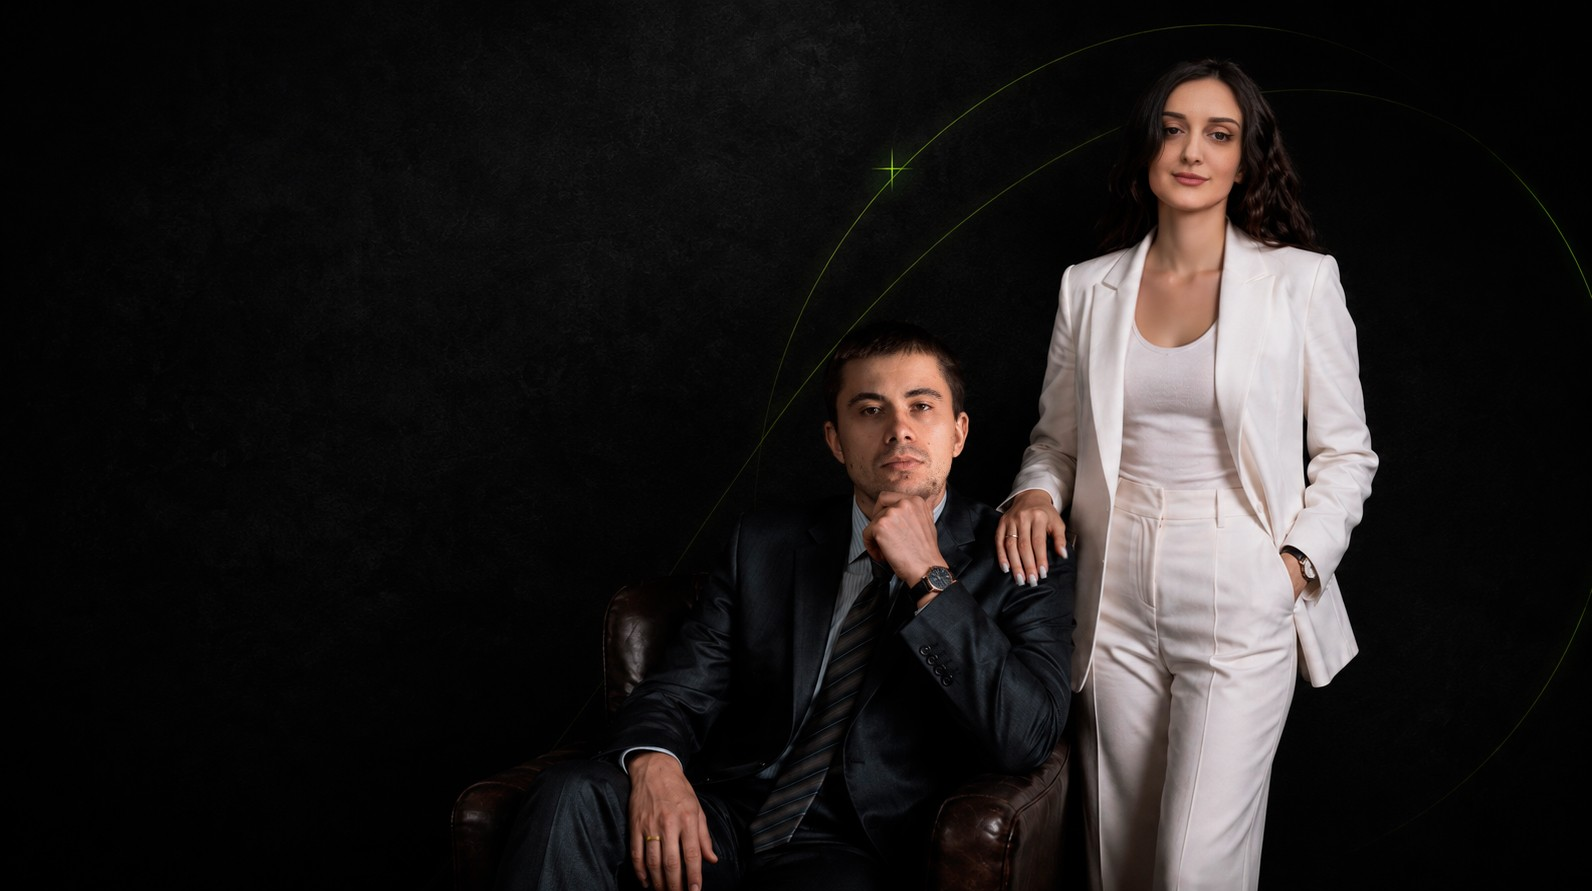
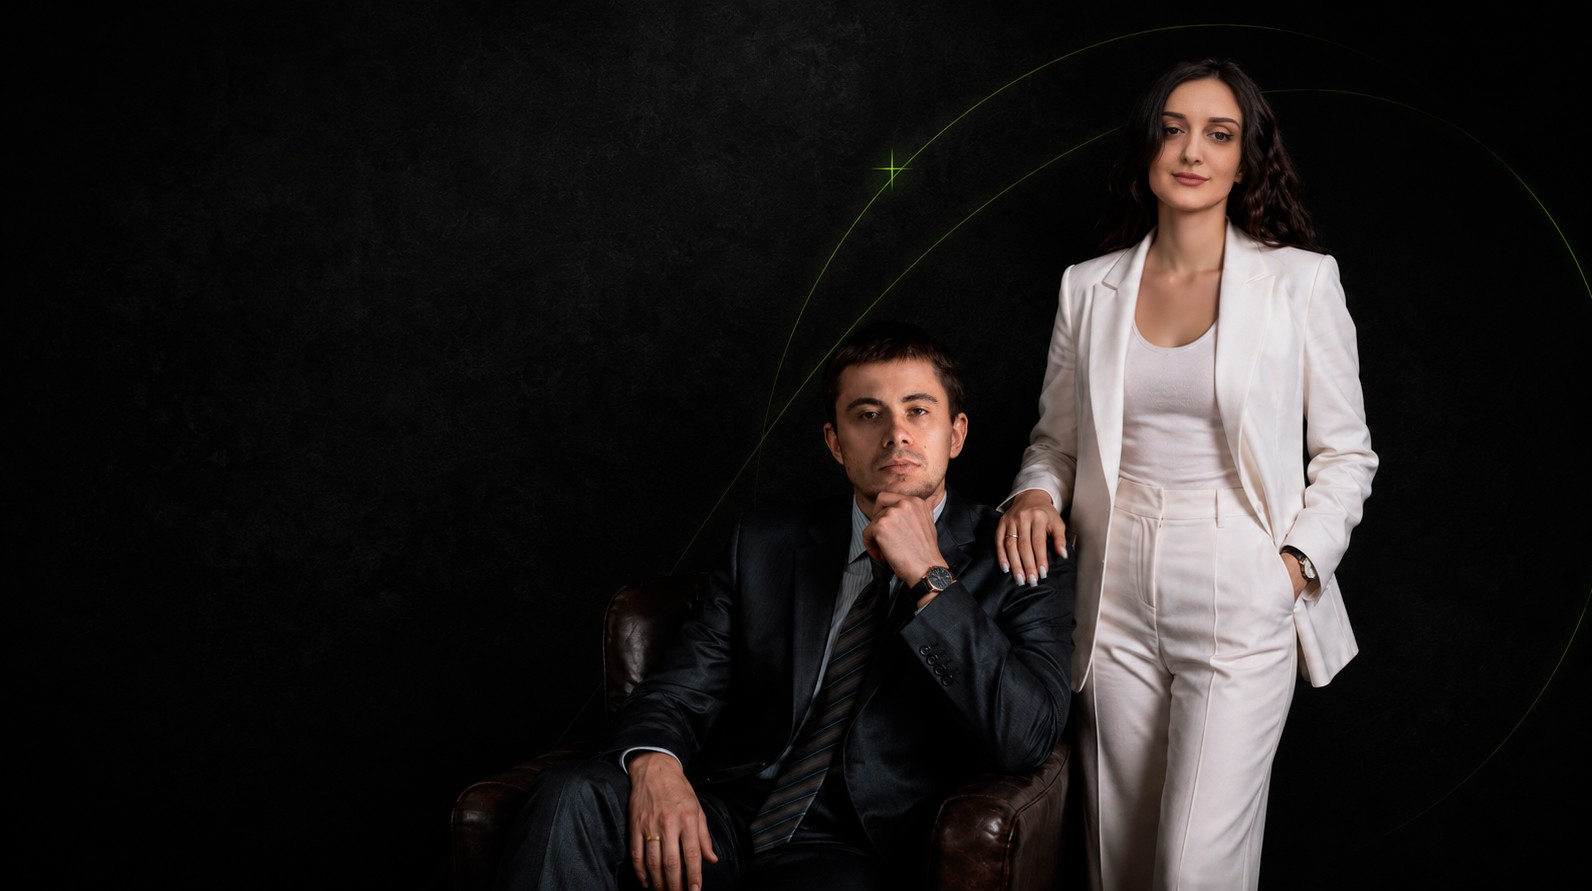
Update the wide shot and centre the phone number
New retouch of the seated figure's face; the framing is unchanged, so
the same MCU-aligned crop applies and the file stays pixel-identical to
the source.

The number moves from beside the logo to the gap between it and the
call button, which is where it was asked for. Measured across six
widths from 1100 to 1920: it holds at 48-59% of the viewport and the
wall behind it never rises above 26 of 255, so no face passes under it.

Changed region(s): [[0.5232, 0.3636, 0.6156, 0.5758]]

diff --git a/site/index.html b/site/index.html
@@ -155,7 +155,7 @@ a{color:inherit;text-decoration:none;}
    ни при какой ширине окна — кадр по cover сдвигается, а номер нет */
 .phone{
   font-size:clamp(14px,1.15vw,17px);white-space:nowrap;
-  margin-left:clamp(18px,3.6vw,60px);margin-right:auto;
+  margin-inline:auto;            /* по центру между логотипом и кнопкой */
   transition:color .3s var(--ease);
 }
 .phone:hover{color:var(--green);}
